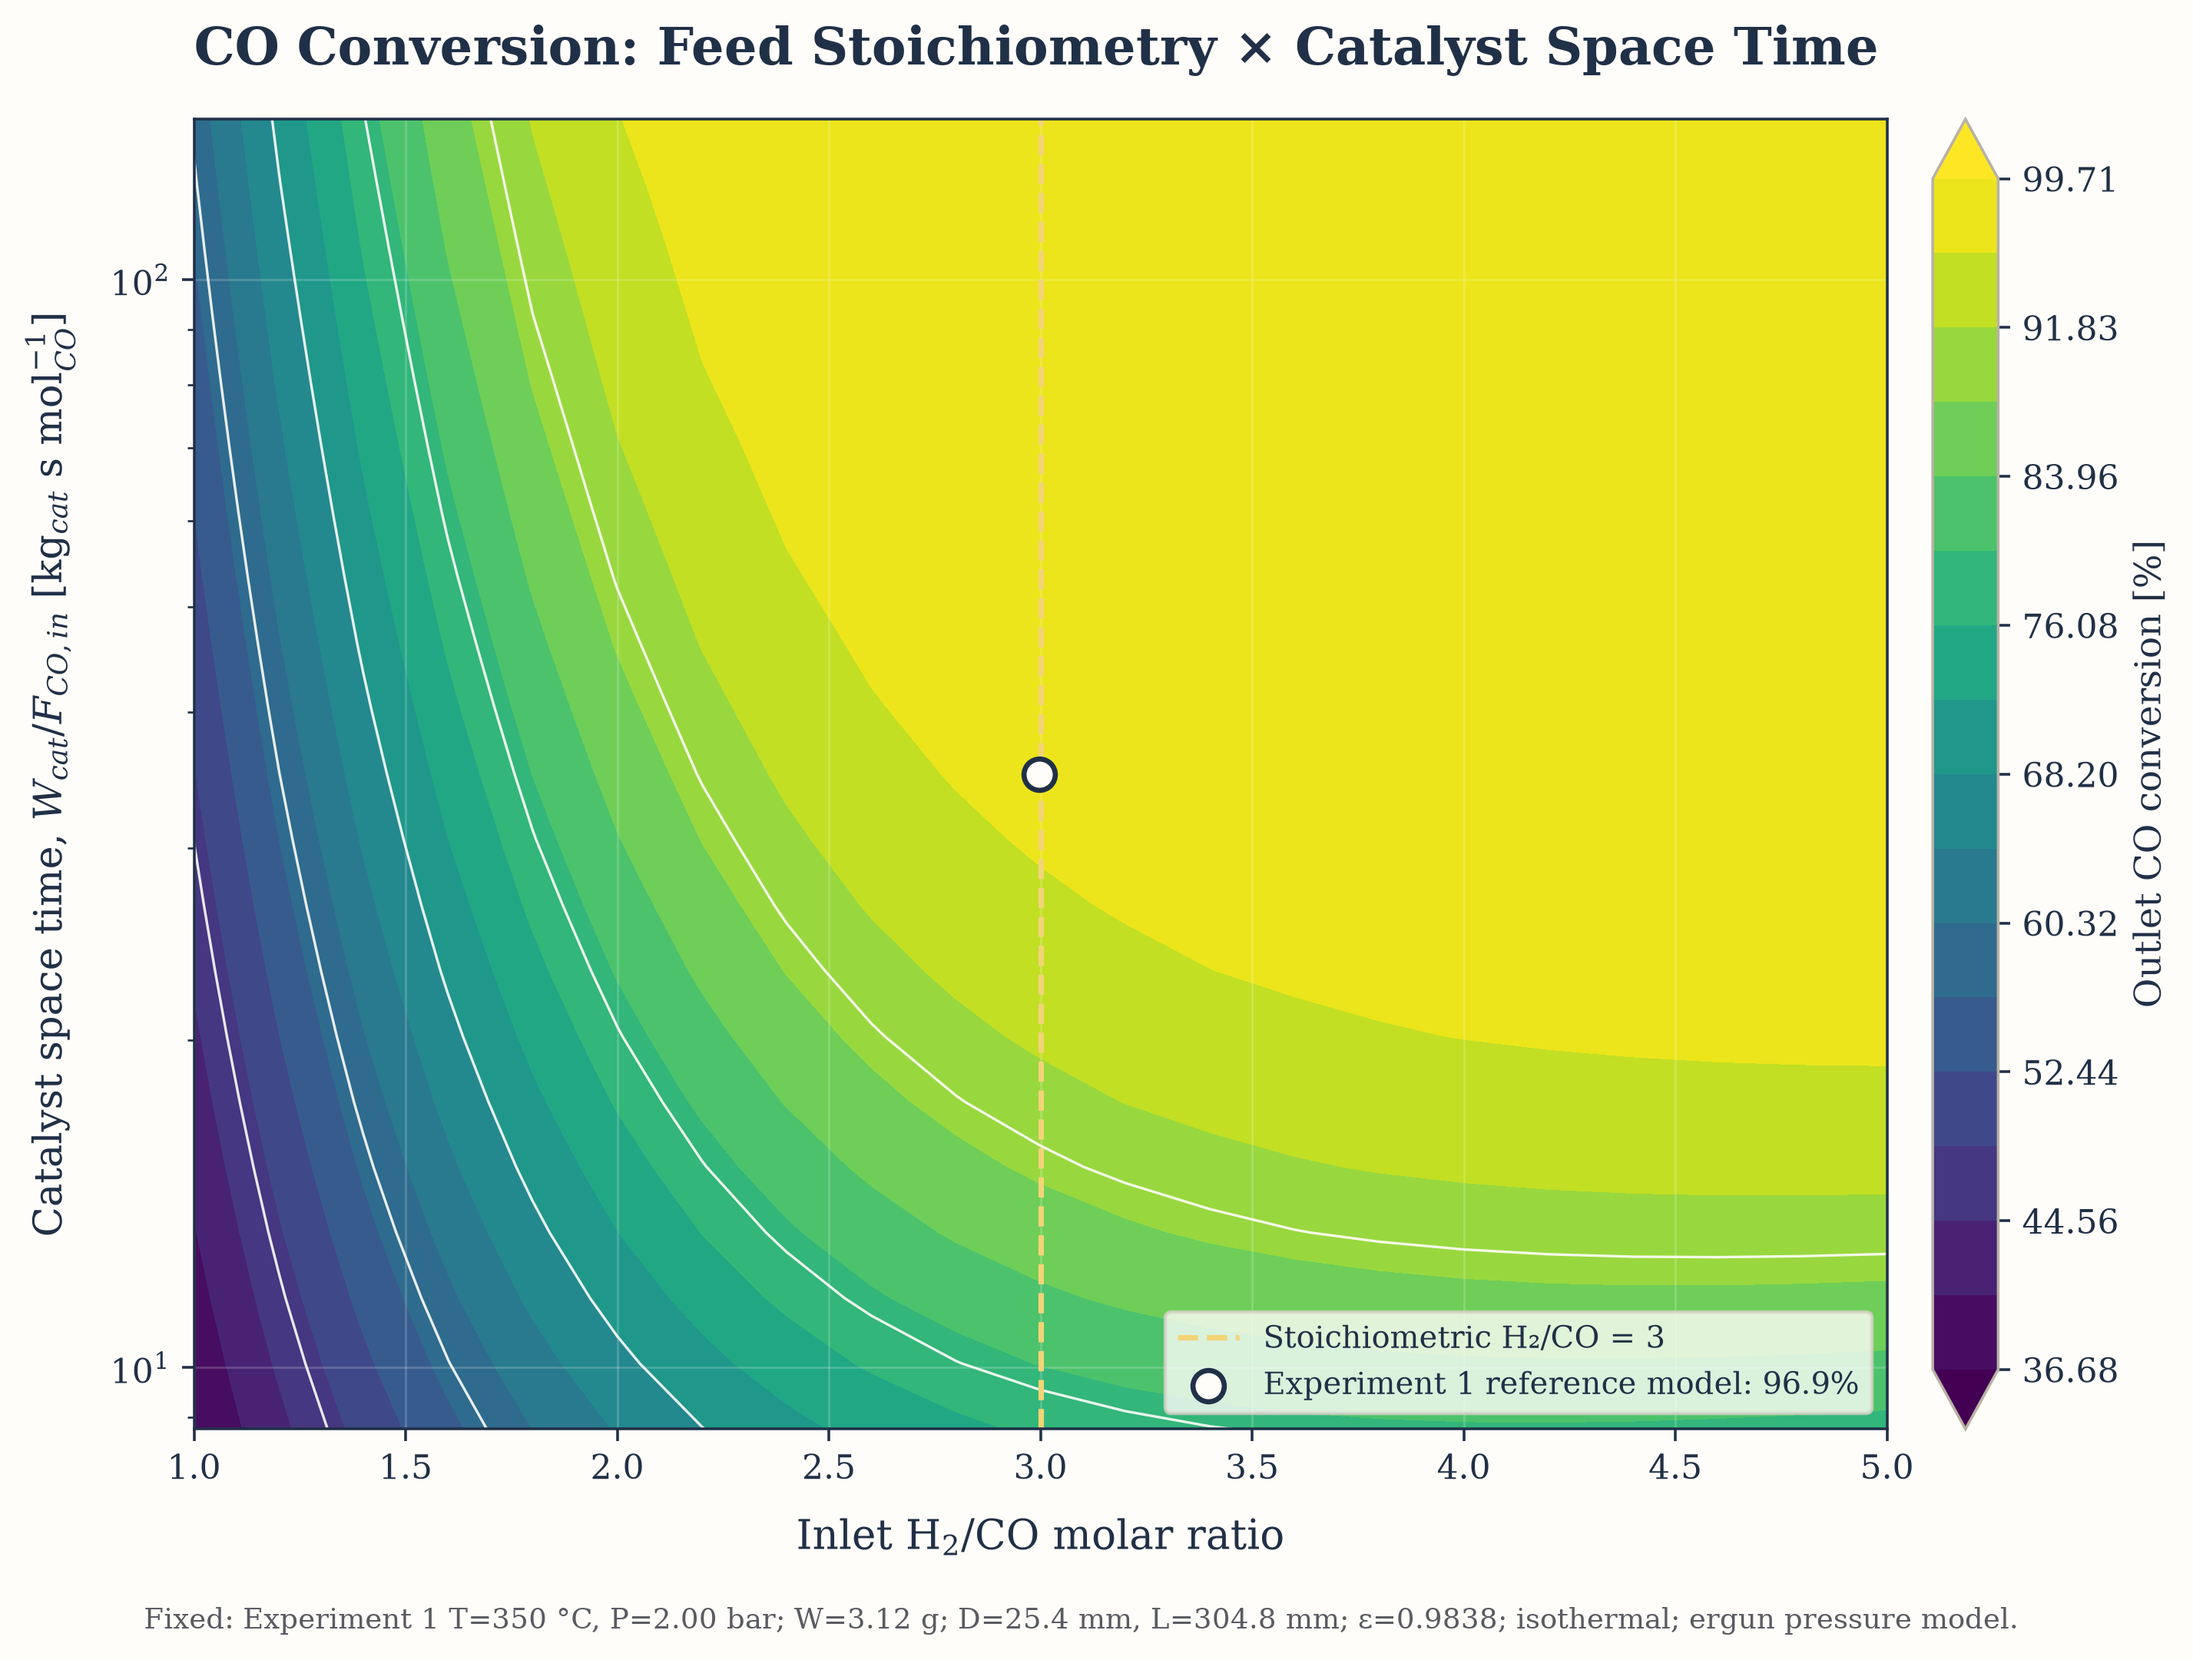
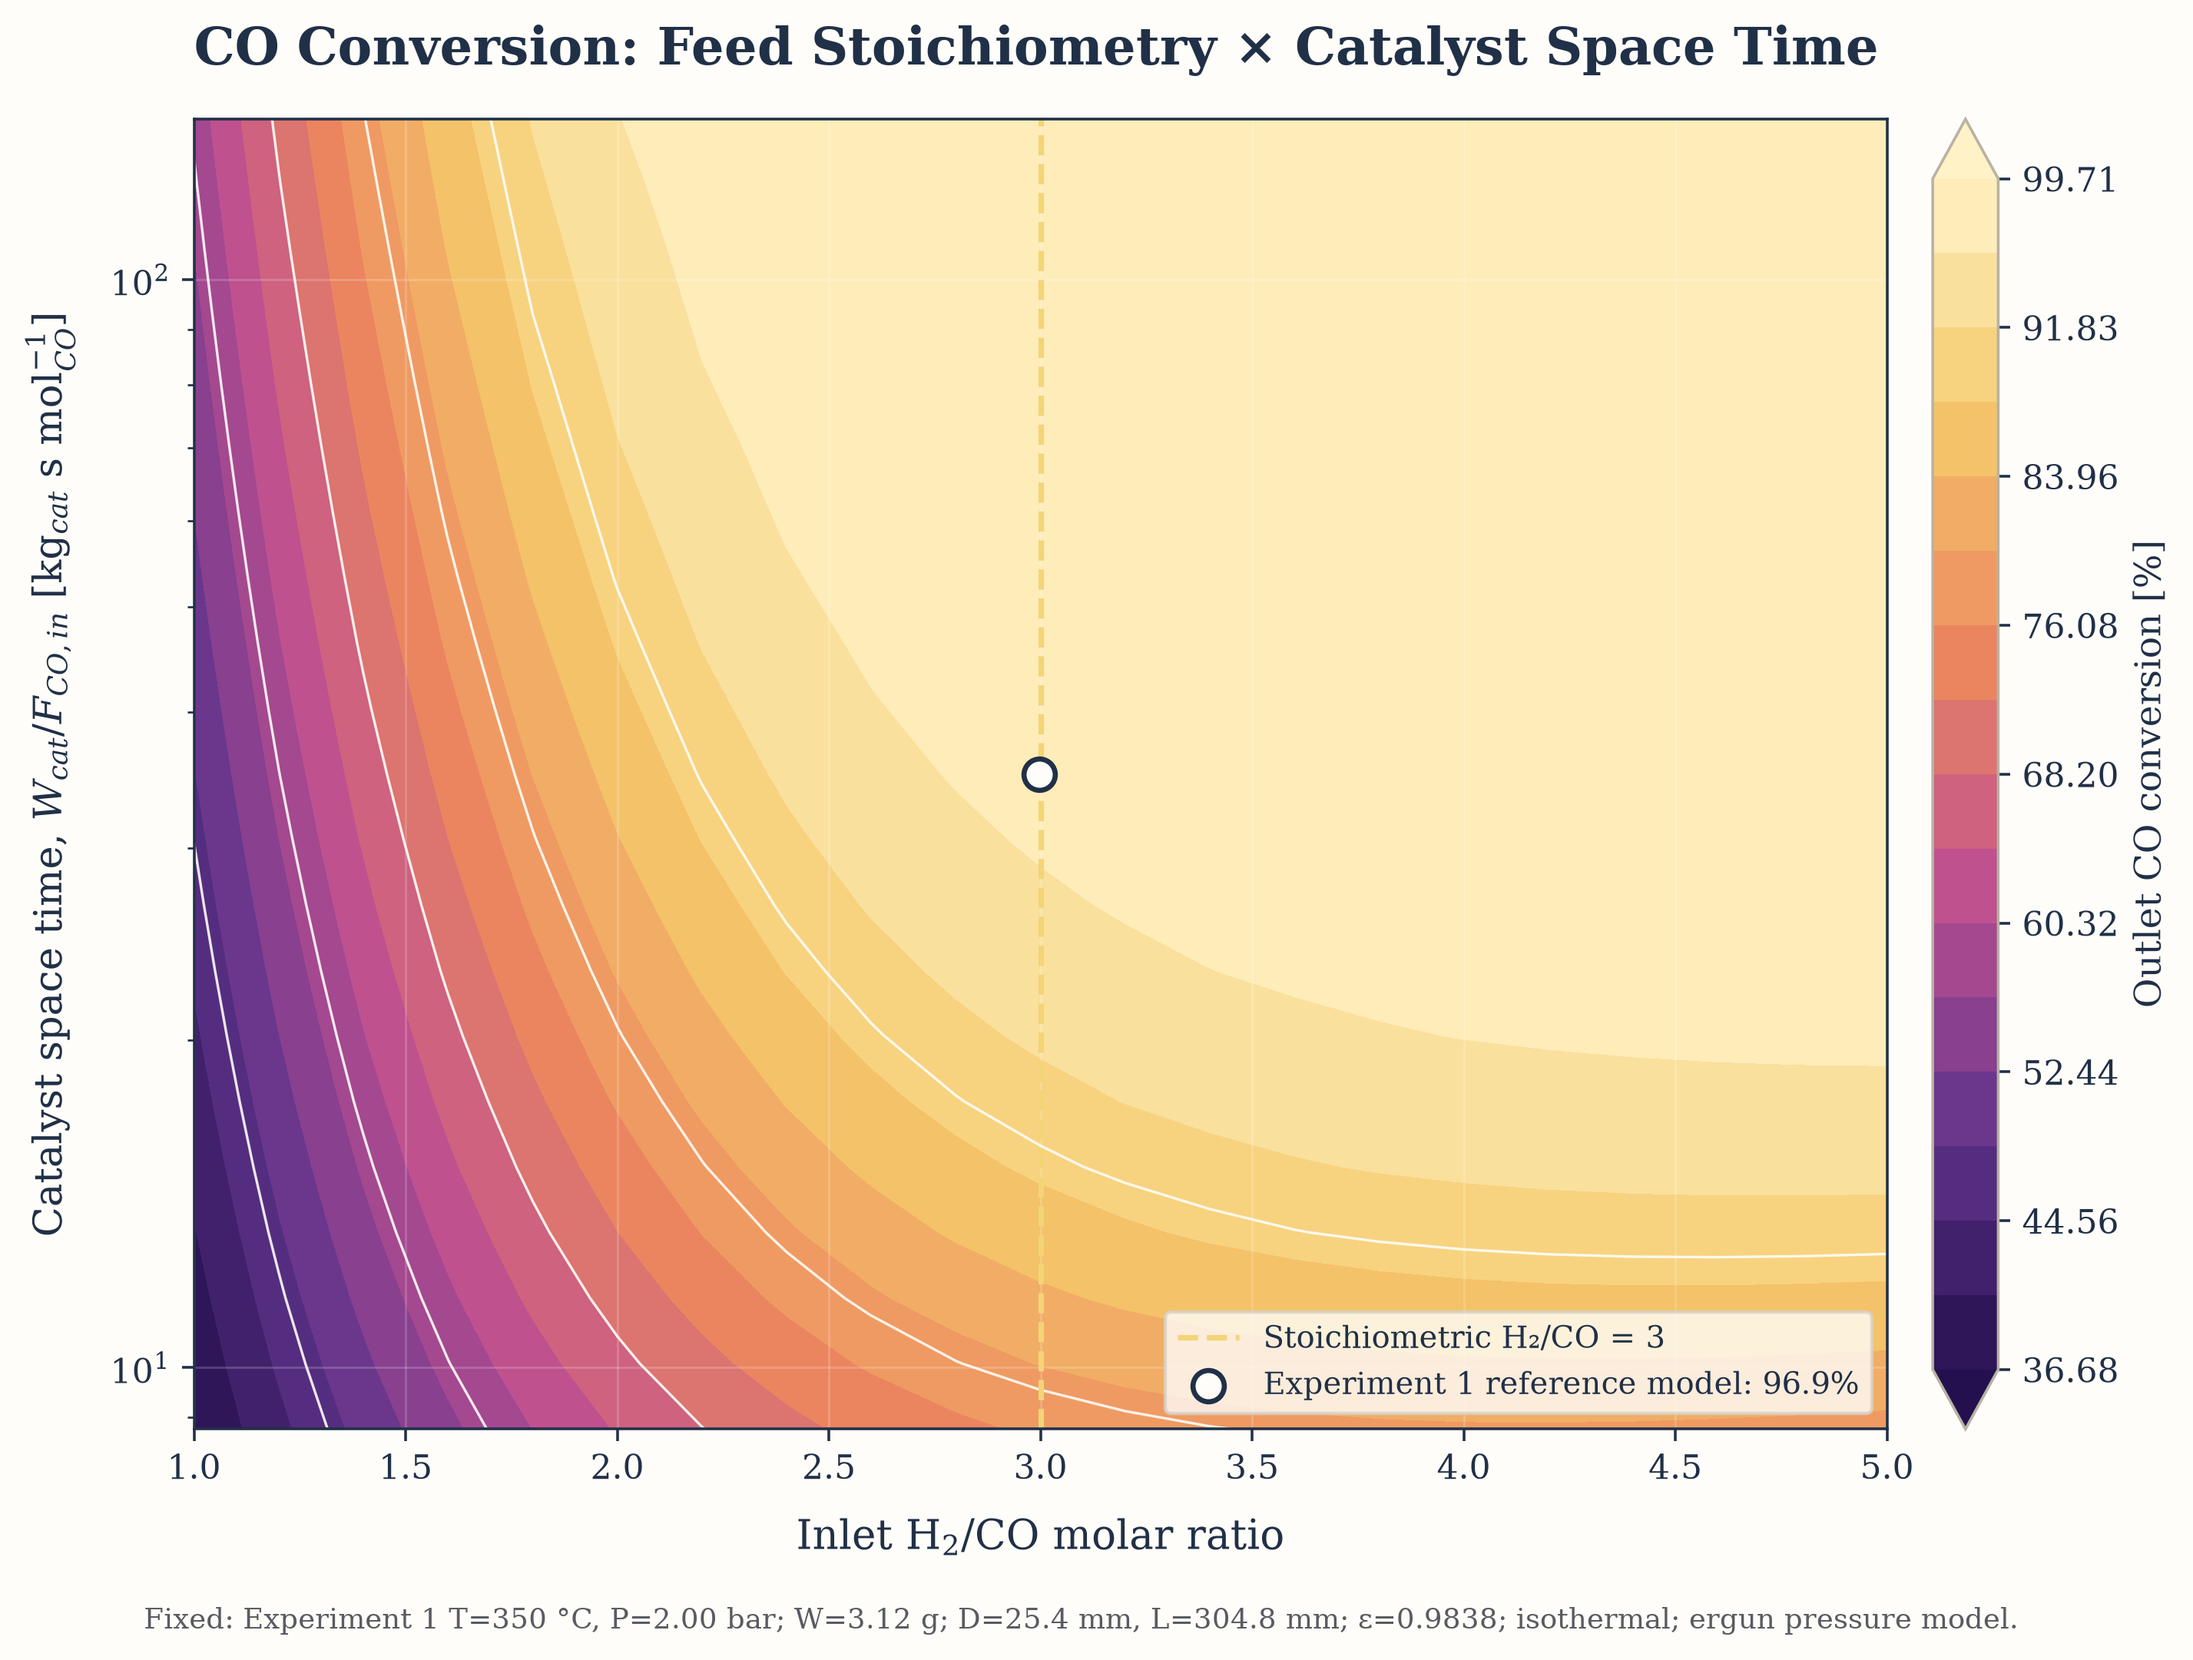
Match ratio contact contour color palette

diff --git a/src/methanation/ratio_contact_time_sensitivity.py b/src/methanation/ratio_contact_time_sensitivity.py
@@ -15,6 +15,7 @@ import matplotlib
 matplotlib.use("Agg")
 
 import matplotlib.pyplot as plt
+from matplotlib.colors import LinearSegmentedColormap
 import numpy as np
 
 from .config import ReactorConfig
@@ -26,7 +27,11 @@ PAPER = "#fffdf9"
 BLUE = "#1c7890"
 RED = "#cf3b38"
 GOLD = "#df9b28"
-CONTOUR_CMAP = "viridis"
+CONTOUR_CMAP = LinearSegmentedColormap.from_list(
+    "violet_sunset",
+    ["#24104f", "#63358d", "#bd4f91", "#ec865f", "#f5c96a", "#fff2c6"],
+    N=256,
+)
 
 
 def _axis_with_references(
